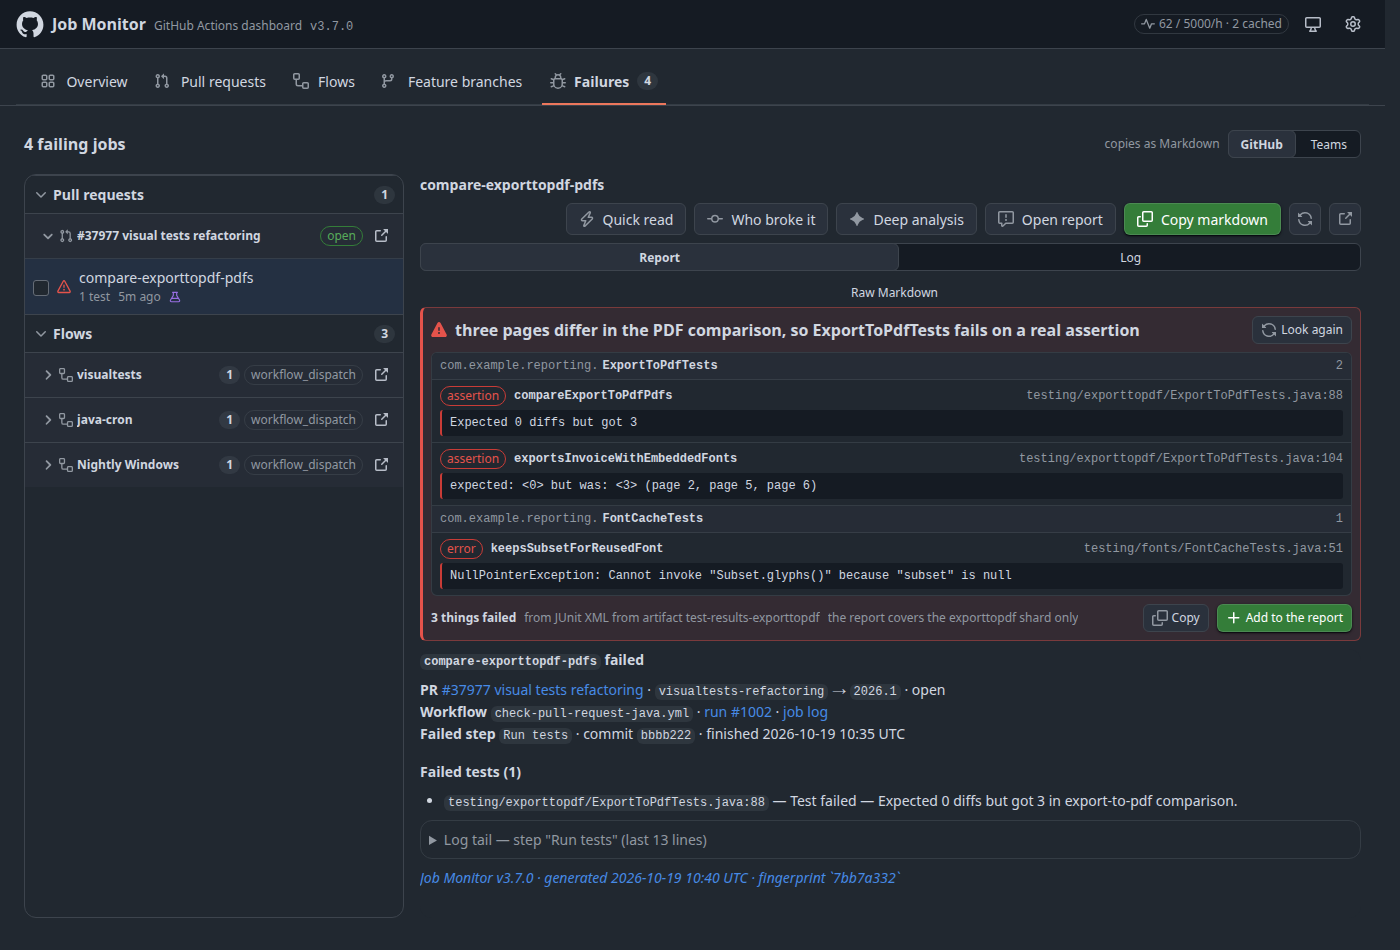
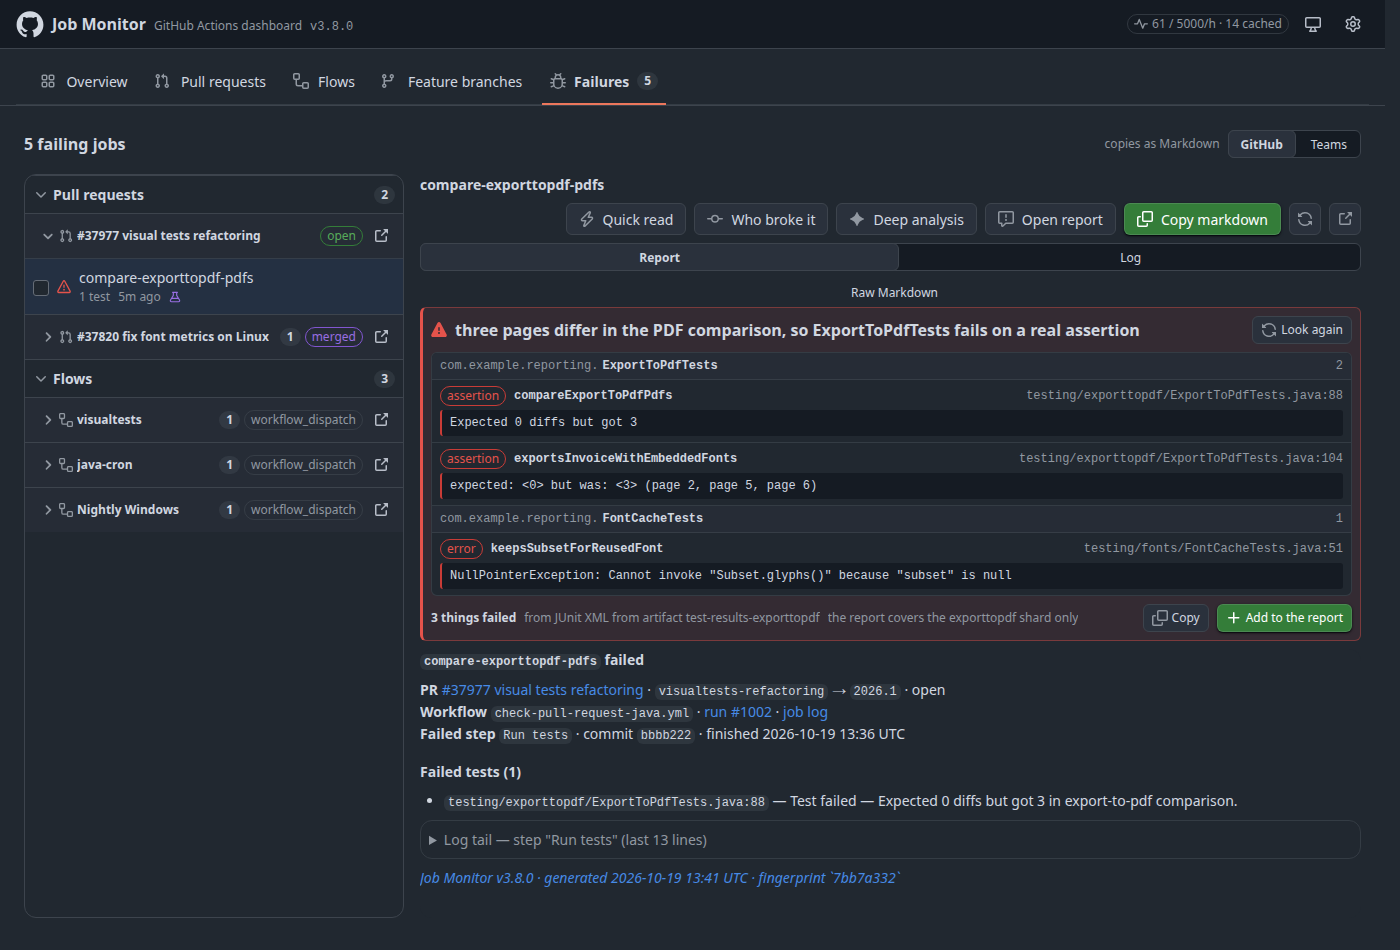
Regenerate the screenshots at 3.8.0
The header of every shot carries the version. The timeline shot is retaken with its new Wait
column, and run-timing.png is new: a flow run's summary with its Timing section, shown in the README.

diff --git a/README.md b/README.md
@@ -711,6 +711,8 @@ plain. The **Wait** column gives each bar's wait as a number, and hovering a bar
 A flow run's **Summary** has a **Timing** section with the same numbers per job — queued, set up,
 work, longest wait first — under a line with the longest wait for a runner and the total.
 
+![A flow run's summary with its Timing section](docs/screenshots/run-timing.png)
+
 ![Timeline](docs/screenshots/timeline.png)
 
 ### Artifacts
